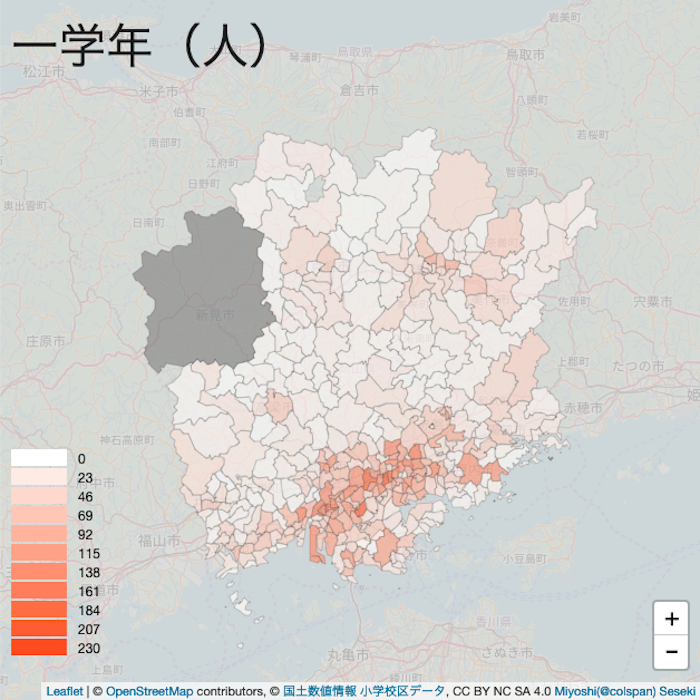
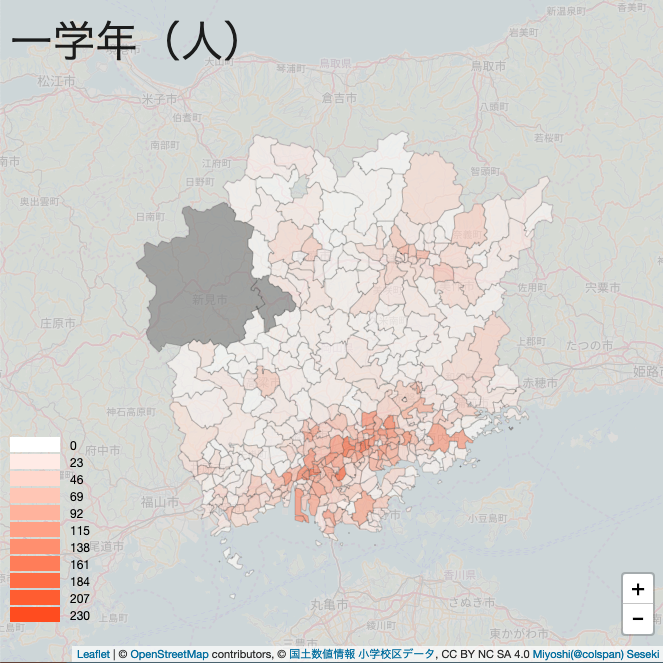
小中学校のshapeをひとまず2018年に統一

diff --git a/index.html b/index.html
@@ -139,11 +139,11 @@
 
       <h3 class="center">小学校区単位データ</h3>
       <div class="col s12 m3 l3">
-        <a class="tooltipped" data-position="top" data-tooltip="クリックすると可視化画面に移動します" href="elementary_school_districts.html#sample=./sample_data/elementary_okayama_district2016.csv"><img src="img/elementary_okayama_district2016.PNG" width="100%"><br /> 小学校生徒数・学級数/2016
+        <a class="tooltipped" data-position="top" data-tooltip="クリックすると可視化画面に移動します" href="elementary_school_districts20190322.html#sample=./sample_data/elementary_okayama_district2016.csv"><img src="img/elementary_okayama_district2016.PNG" width="100%"><br /> 小学校生徒数・学級数/2016
                 </a>
       </div>
       <div class="col s12 m3 l3">
-        <a class="tooltipped" data-position="top" data-tooltip="クリックすると可視化画面に移動します" href="elementary_school_districts2017.html#sample=./sample_data/elementary_okayama_district2017.csv"><img src="img/elementary_okayama_district2017.PNG" width="100%"><br /> 小学校生徒数・学級数/2017
+        <a class="tooltipped" data-position="top" data-tooltip="クリックすると可視化画面に移動します" href="elementary_school_districts20190322.html#sample=./sample_data/elementary_okayama_district2017.csv"><img src="img/elementary_okayama_district2017.PNG" width="100%"><br /> 小学校生徒数・学級数/2017
                 </a>
       </div>
       <div class="col s12 m3 l3">
@@ -157,7 +157,7 @@
 
         <h3 class="center">中学校区単位データ</h3>
       <div class="col s12 m3 l3">
-        <a class="tooltipped" data-position="top" data-tooltip="クリックすると可視化画面に移動します" href="junior_high_school_districts.html#sample=./sample_data/junior_high_junior_high_district2016.csv"><img src="img/junior_high_junior_high_district2016.png" width="100%"><br /> 中学校生徒数・学級数/2016
+        <a class="tooltipped" data-position="top" data-tooltip="クリックすると可視化画面に移動します" href="junior_high_school_districts20190322.html#sample=./sample_data/junior_high_junior_high_district2016.csv"><img src="img/junior_high_junior_high_district2016.png" width="100%"><br /> 中学校生徒数・学級数/2016
                 </a>
       </div>
       <div class="col s12 m3 l3">
